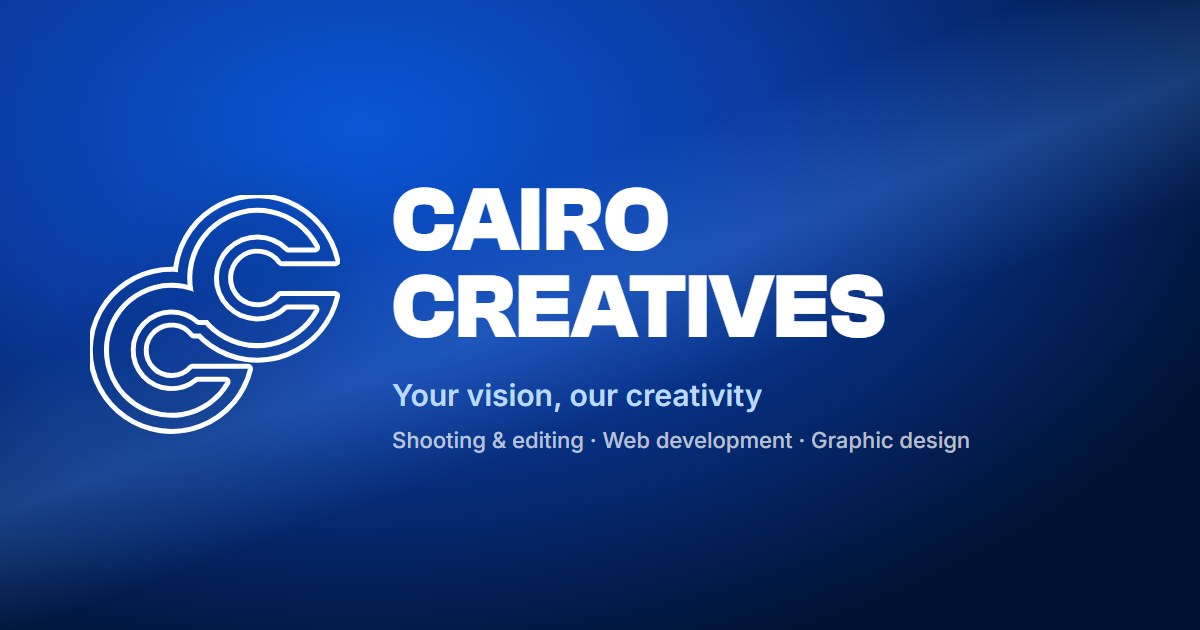
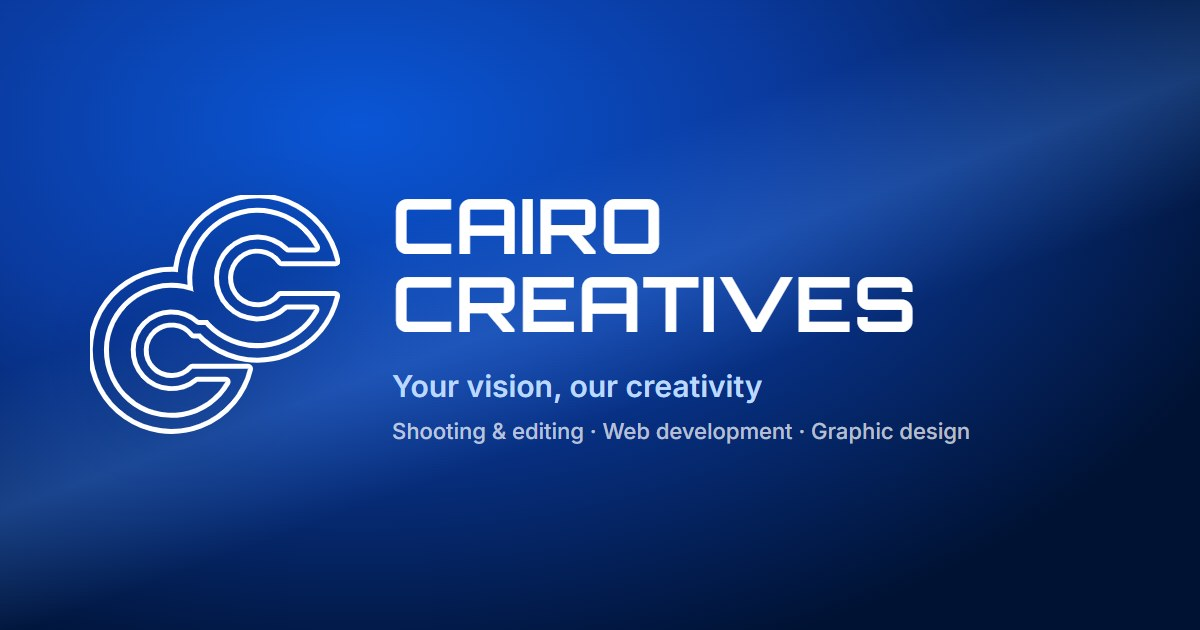
Brand name in Orbitron (closest free match to the brand font)
Navbar name, intro loader, footer wordmark and the link-preview image
now use Orbitron Bold; footer wordmark resized to fit centred.

Changed region(s): [[0.3083, 0.2714, 0.7708, 0.5429], [0.3083, 0.6032, 0.8017, 0.7238]]

diff --git a/src/styles/global.css b/src/styles/global.css
@@ -1,6 +1,6 @@
 :root{
   --accent:#2f7bff; --black:#000; --navy:#001233; --navy-2:#06205c; --ink:var(--navy-2); --gray:#f5f5f5; --white:#fff;
-  --display:"Clash Grotesk",sans-serif; --body:"Inter",sans-serif; --mono:"Geist Mono",monospace;
+  --display:"Clash Grotesk",sans-serif; --brand:"Orbitron",sans-serif; --body:"Inter",sans-serif; --mono:"Geist Mono",monospace;
   --pad:60px;
   /* spacing scale */
   --s-1:5px;--s-2:8px;--s-3:10px;--s-4:12px;--s-5:16px;--s-6:20px;--s-7:32px;--s-8:40px;--s-9:60px;--s-10:80px;--s-11:120px;
@@ -43,7 +43,7 @@ a:hover .roll .ch,button:hover .roll .ch,a:focus-visible .roll .ch{transform:tra
 
 /* NAV */
 nav{position:absolute;top:0;left:0;right:0;z-index:50;display:flex;align-items:center;justify-content:space-between;padding:24px var(--pad);color:#fff;transition:background .3s,padding .3s}
-.logo{display:flex;align-items:center;gap:10px;font:600 18px/1 var(--display);text-transform:uppercase;letter-spacing:.02em}
+.logo{display:flex;align-items:center;gap:10px;font:700 17px/1 var(--brand);text-transform:uppercase;letter-spacing:.02em}
 .logo img{height:38px;width:auto}
 .links{display:flex;gap:32px;align-items:center}
 .links a{font:400 16px var(--body);display:flex;gap:6px;align-items:flex-start}
@@ -156,7 +156,7 @@ footer .bg{position:absolute;inset:0;background:radial-gradient(ellipse at 35% 3
 .fcols h6{font:600 12px var(--mono);letter-spacing:.08em;opacity:.5;margin-bottom:12px}
 .fcols .nav a{display:block;font:600 32px/1.15 var(--display);text-transform:uppercase}
 .fcols .soc a{display:block;font:600 16px/1.4 var(--display);text-transform:uppercase}
-.wordmark{position:relative;font:700 clamp(34px,10.6vw,190px)/.8 var(--display);text-transform:uppercase;text-align:center;margin:120px calc(-1 * var(--pad)) 0;white-space:nowrap;transform:translateY(8%)}
+.wordmark{position:relative;font:700 clamp(28px,8.6vw,160px)/.9 var(--brand);text-transform:uppercase;text-align:center;margin:120px calc(-1 * var(--pad)) 0;white-space:nowrap;transform:translateY(8%)}
 
 /* MOBILE */
 @media (max-width:900px){
@@ -205,7 +205,7 @@ html.loading,html.loading body{overflow:hidden}
 .loader__name{display:grid;grid-template-columns:0fr;animation:ld-open .7s cubic-bezier(.65,0,.35,1) 1.15s forwards}
 .loader__name>div{min-width:0;overflow:hidden;padding-left:clamp(.9rem,2vw,1.6rem);padding-block:.2em}
 .loader__text{display:block;white-space:nowrap;transform:translateY(115%);animation:ld-rise .7s cubic-bezier(.22,1,.36,1) 1.25s forwards}
-.loader__text strong{display:block;font:700 clamp(1.25rem,3.1vw,2.5rem)/1.02 var(--display);letter-spacing:.01em;text-transform:uppercase}
+.loader__text strong{display:block;font:700 clamp(1.1rem,2.7vw,2.2rem)/1.02 var(--brand);letter-spacing:.01em;text-transform:uppercase}
 .loader__text span{display:block;margin-top:.35em;font:600 clamp(.62rem,1.2vw,.95rem) var(--display);letter-spacing:.42em;text-transform:uppercase;color:var(--accent)}
 @keyframes ld-dot{from{transform:scale(0)}to{transform:scale(1)}}
 @keyframes ld-settle{0%{transform:scale(1)}55%{transform:scale(.92)}100%{transform:scale(1)}}
